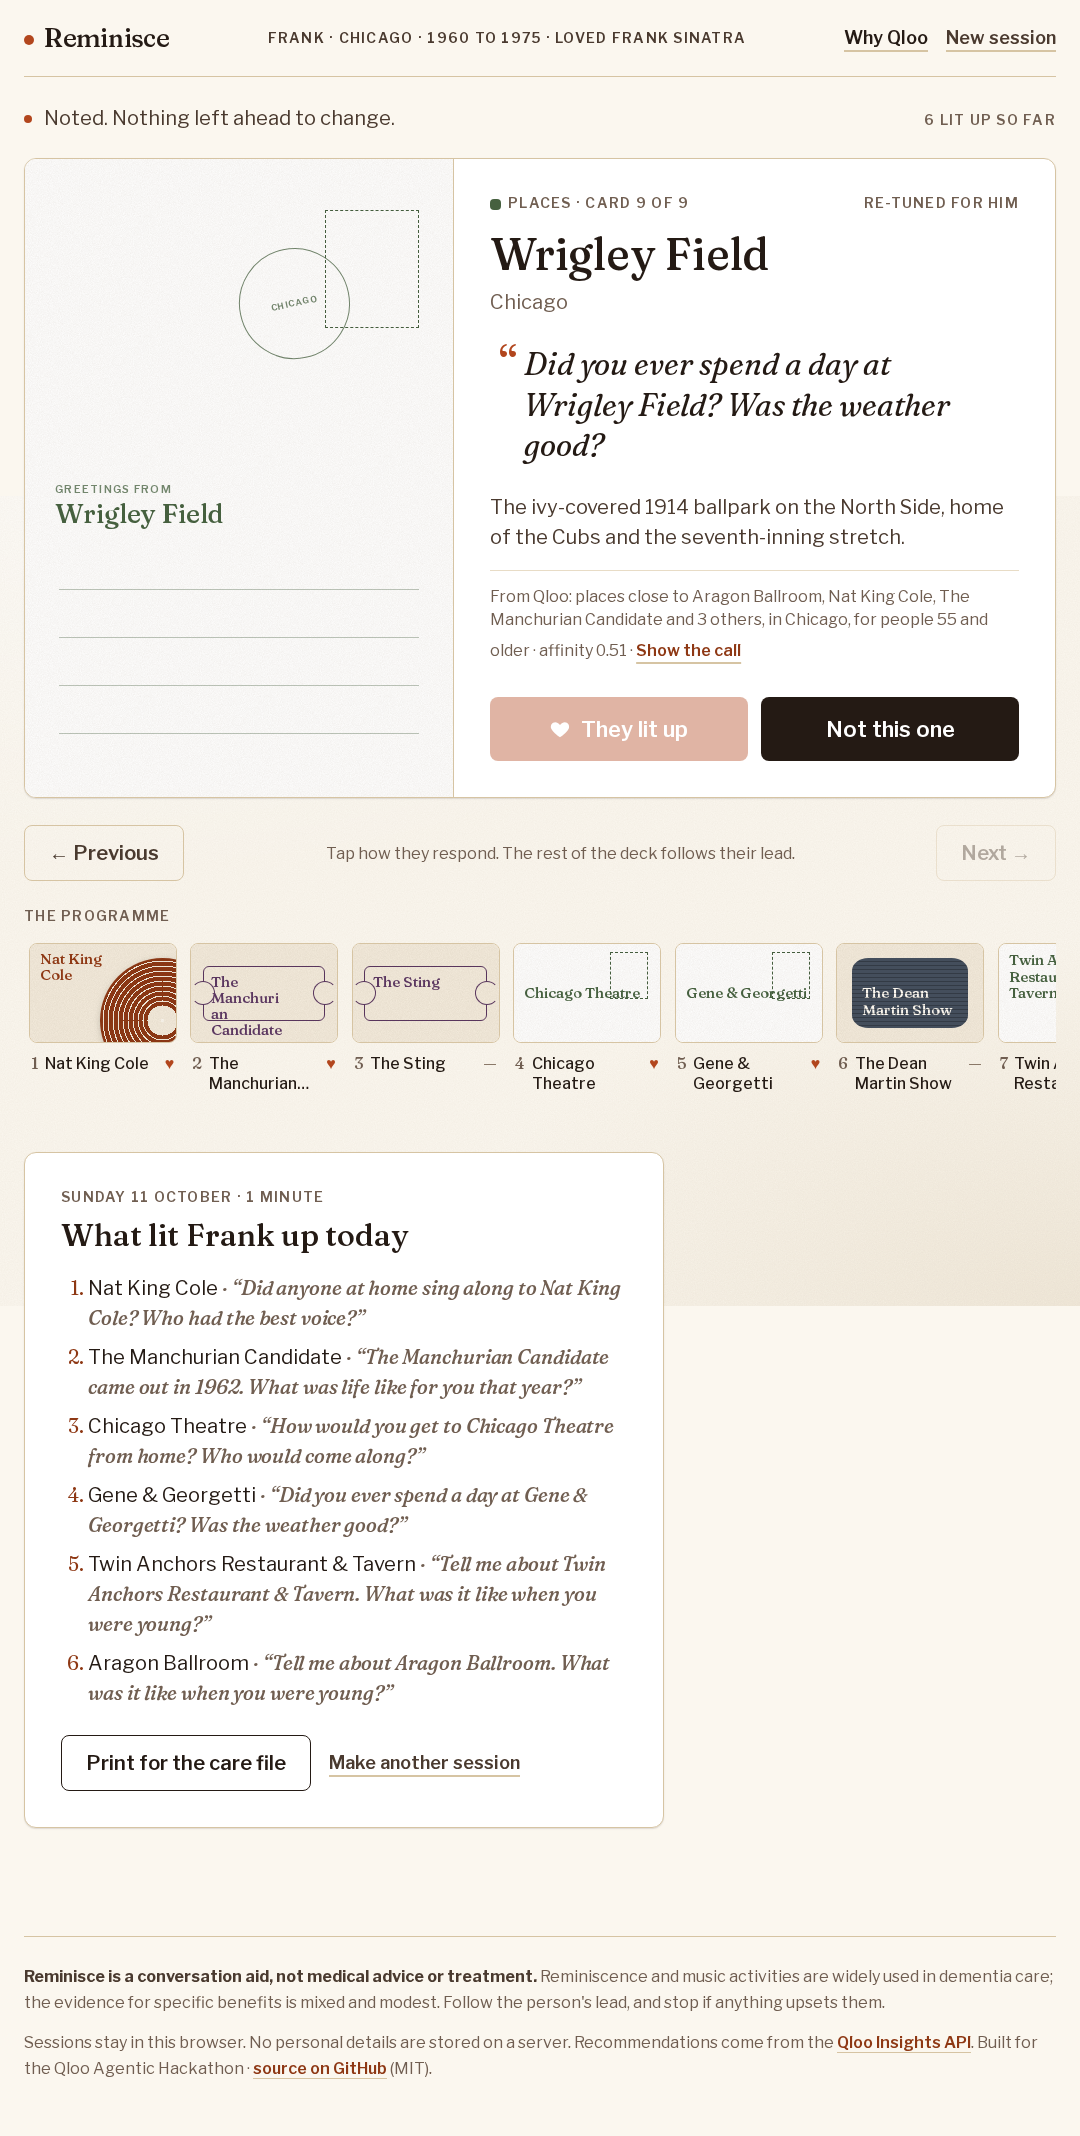
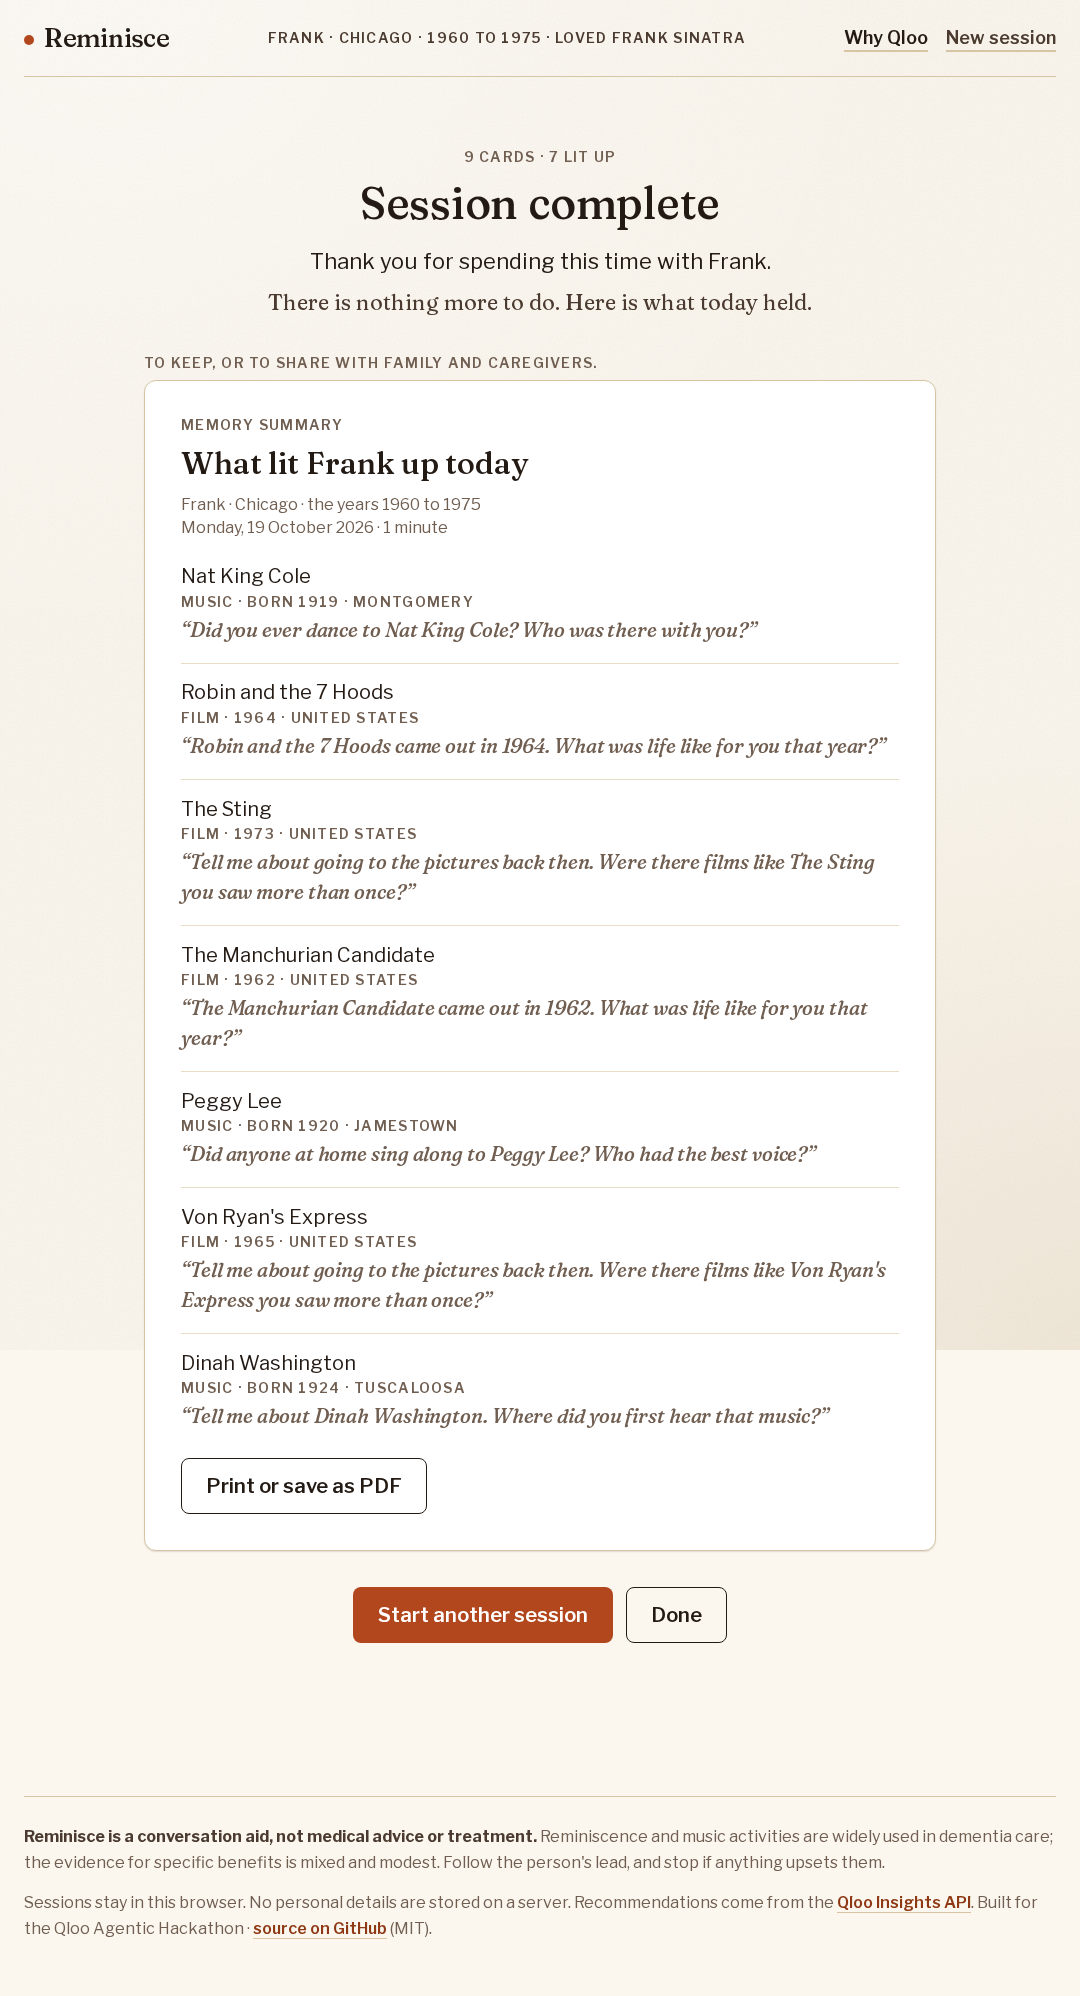
no-mistakes(document): Retake session screenshots for Because line and Session complete

diff --git a/README.md b/README.md
@@ -5,7 +5,7 @@ A cultural memory session builder for dementia caregivers, driven by an agent th
 
 Built for the Qloo Agentic Hackathon. MIT licensed.
 
-![Michiko's session: a record sleeve for Yujiro Ishihara beside the card, an italic conversation prompt, a "From Qloo" footnote and two large reaction buttons](docs/screenshots/session-michiko.png)
+![Michiko's session: a record sleeve for Yujiro Ishihara beside the card, a "Because Michiko likes Hibari Misora" line, an italic conversation prompt, a "From Qloo" footnote and two large reaction buttons](docs/screenshots/session-michiko.png)
 
 ## What it is
 
@@ -17,7 +17,7 @@ Planning ends at a **Session ready** overview rather than opening the first card
 
 During the session the caregiver taps **They lit up** or **Not this one** and the deck moves straight on. Behind it, the agent goes back to Qloo with the liked entity as a new signal (or the disliked one excluded) and swaps cards further ahead, never the one in front of the caregiver, while a quiet "re-tuning" line shows what it is doing. A **Why Qloo** panel exposes every call: the endpoint, entity type, signals, filters, affinity score and Qloo's explainability breakdown of which seed pulled each item in.
 
-![Frank's session: Nat King Cole with a prompt about singing along at home, one example of the cards Qloo dealt for him](docs/screenshots/session-frank.png)
+![Frank's session: Nat King Cole, "Because Frank likes Frank Sinatra", with a prompt about dancing to his music, one example of the cards Qloo dealt for him](docs/screenshots/session-frank.png)
 
 Two presets let you try it in one tap. Michiko (born 1950, Osaka, loved Hibari Misora) and Frank (born 1945, Chicago, loved Frank Sinatra) get sessions that differ end to end: Japanese singers, Japanese films of 1965 to 1980, Osaka's own landmarks and a trip for Michiko; standards singers, American films and television of 1960 to 1975, Chicago's own landmarks and a trip for Frank.
 
@@ -200,7 +200,7 @@ Tapping **They lit up** on a card:
 
 When every card has a reaction the session ends by itself after a beat, or the caregiver presses **Finish the session** on the last card. A calm **Session complete** screen thanks the caregiver by the person's name and shows a memory summary for family and caregivers: what lit them up, each with its kind, year and prompt, ready to print or save as a PDF. **Start another session** and **Done** both lead back to the start page. The ending is saved with the session, so a reload opens the same screen. The session's phases (planning, overview, in session, complete) are one typed state machine in `src/lib/session/flow.ts`.
 
-![Keepsake at the end of Frank's session: "What lit Frank up today" lists six cards with their prompts above a Print for the care file button](docs/screenshots/keepsake.png)
+![Session complete at the end of Frank's session: a thank-you with his name above the memory summary "What lit Frank up today", seven cards with their kind, year and prompt, a Print or save as PDF button, and Start another session and Done buttons](docs/screenshots/keepsake.png)
 
 ## Why Qloo panel
 
